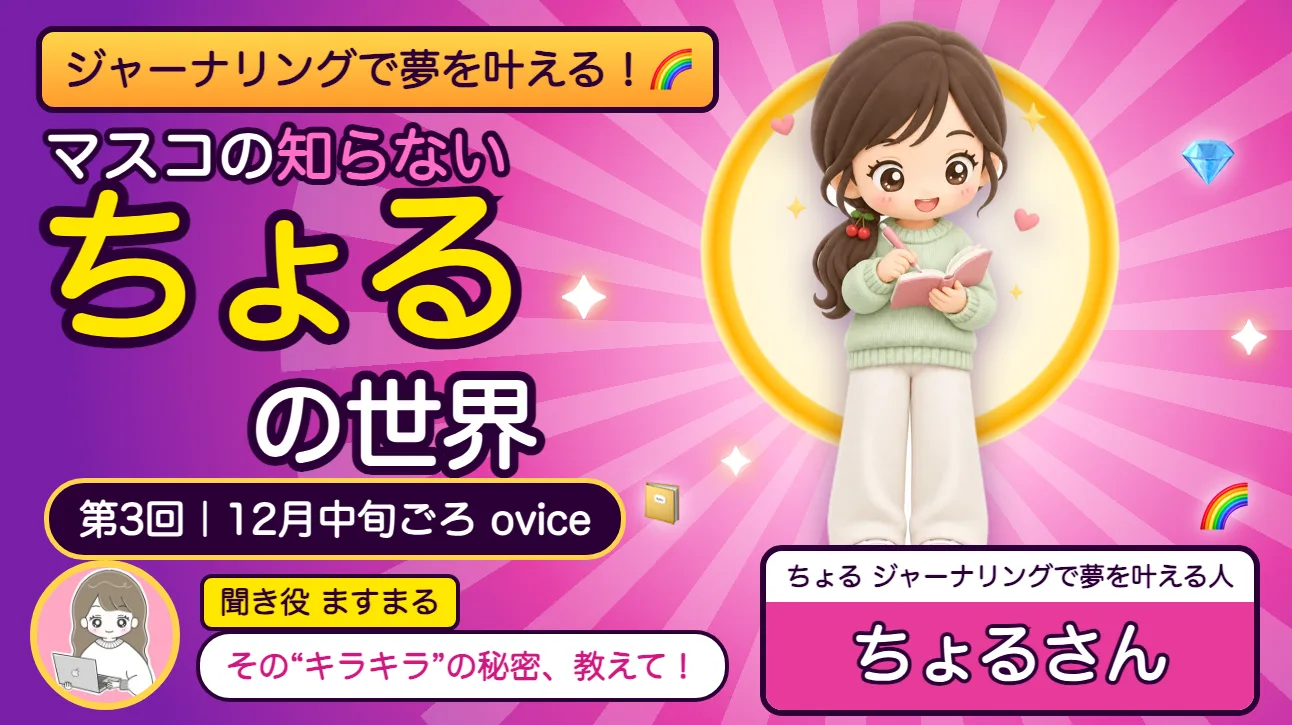
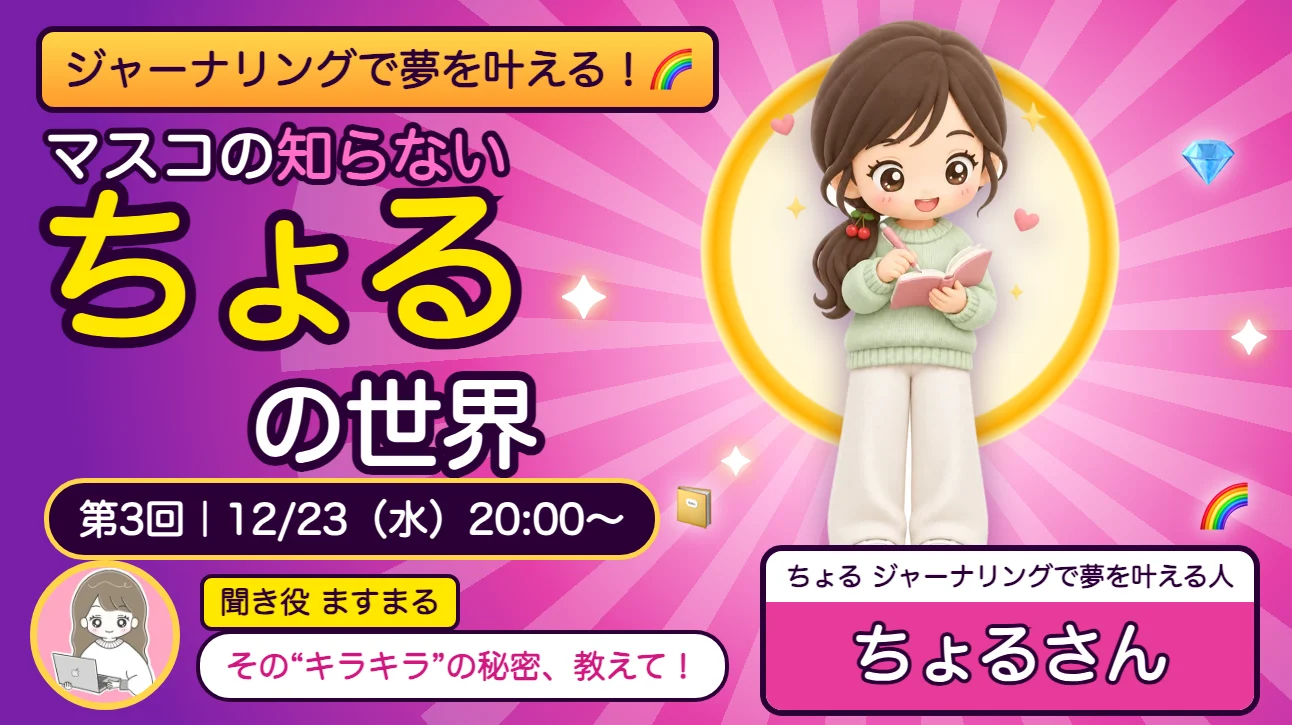
マスコの知らない世界：第3回 12/23（水）20:00〜確定・第2回わっしーさんの宝物と振り返り記事を追加

Changed region(s): [[0.2167, 0.6372, 0.5573, 0.789]]

diff --git a/friend-share-g-4TJvltQiyBCvCCj7/index.html b/friend-share-g-4TJvltQiyBCvCCj7/index.html
@@ -440,8 +440,8 @@ h2{font-size:clamp(21px,6vw,30px)}
 .js .gems li .lid:active{transform:translateY(3px) scale(.98)}
 @media(min-width:860px){
  .shelf{grid-template-columns:1fr}
- #ep1{display:grid;grid-template-columns:5fr 6fr;align-items:start}
- #ep1>img{height:100%;aspect-ratio:auto;min-height:100%}
+ #ep1,#ep2{display:grid;grid-template-columns:5fr 6fr;align-items:start}
+ #ep1>img,#ep2>img{height:100%;aspect-ratio:auto;min-height:100%}
  .booklist{margin-right:0}
  .list3{grid-template-columns:repeat(3,1fr)}
  .tachiewrap{width:220px}
@@ -492,7 +492,7 @@ button.tapcue{background:none;border:0;padding:6px 0;font-family:inherit;cursor:
 @media (max-width:480px){.dock .d{font-size:0}.dock .d b{font-size:15px}}
 @media (prefers-reduced-motion:reduce){.lamp{animation:none}}
 [hidden]{display:none!important}
-@media(min-width:860px){#ep1>img{height:auto;min-height:0;aspect-ratio:16/9;align-self:start;border-radius:20px 0 0 0}}
+@media(min-width:860px){#ep1>img,#ep2>img{height:auto;min-height:0;aspect-ratio:16/9;align-self:start;border-radius:20px 0 0 0}}
 .toast{width:max-content}
 
 /* ===== プロフィールへの入口と、記事のサムネ（11/23夕） ===== */
@@ -532,7 +532,7 @@ button.tapcue{background:none;border:0;padding:6px 0;font-family:inherit;cursor:
     <h1>マスコ<small>の</small><br class="spbr">知らない世界</h1>
   </div>
 
-  <a class="chip" href="#next"><span class="when">12月中旬<small style="font-size:.6em">ごろ</small></span><span class="who">次回の放送｜ちょるの世界</span><span class="left" id="left1"></span></a>
+  <a class="chip" href="#next"><span class="when">12/23<small style="font-size:.6em">（水）</small>20:00〜</span><span class="who">次回の放送｜ちょるの世界</span><span class="left" id="left1"></span></a>
   <p class="what">ゲストが夢中になっている「好き」や「こだわり」の世界を、マスコ（＝ますまる）が1対1でじっくり聞かせてもらう場所です💁♀<small>— ますまるさん（番組チャットの概要欄より）</small></p>
   <p class="hunthint" id="hunthint">ページのどこかに💎が5つ！見つけたら押してみてね</p>
 
@@ -548,8 +548,8 @@ button.tapcue{background:none;border:0;padding:6px 0;font-family:inherit;cursor:
 
 <section class="next" id="next">
   <div class="wrap">
-    <div class="nexthead"><h2>次回の放送</h2><div class="datebadge"><b>12月中旬</b><span>ごろ予定</span></div></div>
-    <p class="venue">日時が決まりしだい、番組チャットでお知らせします（ますまるさん）</p>
+    <div class="nexthead"><h2>次回の放送</h2><div class="datebadge"><b>12/23</b><span>（水）20:00〜</span></div></div>
+    <p class="venue">20:00〜｜ovice 4階 レジャーシートエリア｜クリスマスイブイブスペシャル🎅</p>
     <p class="cd" id="cd"></p>
     <div class="nx">
     <div class="rv kv" id="kv"><img width="1292" height="725" src="assets/kokuchi_choru.webp" alt="第3回 ジャーナリングで夢を叶える！ちょるの世界（ファンサイトの仮カード）"></div>
@@ -590,7 +590,7 @@ button.tapcue{background:none;border:0;padding:6px 0;font-family:inherit;cursor:
       <a class="btn" href="https://libecity.com/room_list?room_id=EMX7izce1JYGr04pujfl" target="_blank" rel="noopener">番組チャットをのぞく</a>
       <a class="btn w" href="https://app.ovice.com/ws/libe33333/" target="_blank" rel="noopener">当日のovice会場へ行く</a>
     </div>
-    <p class="note">参加のしかたは、ますまるさんの告知の言葉から。<br>※日時・場所は、決まりしだい番組チャットでお知らせします（第1回・第2回は ovice 4階 レジャーシートエリアでした）。</p>
+    <p class="note">参加のしかたは、ますまるさんの告知（11/28）の言葉から。<br>※4階に入室後、レジャーシートエリアへお越しください（変更があれば番組チャットでお知らせがあります）。</p>
   </div>
 </section>
 
@@ -611,10 +611,10 @@ button.tapcue{background:none;border:0;padding:6px 0;font-family:inherit;cursor:
     <article class="rv card soon" id="ep3"><span class="ribbon">次回</span>
       <div class="giftbox" aria-hidden="true">🎁</div>
       <div class="body">
-        <time><span class="no">#03</span>12月中旬ごろ <span class="tag">準備中！</span> <span class="tag" id="left2" style="animation:none;background:#fff"></span></time>
+        <time><span class="no">#03</span>12/23（水） <span class="tag">準備中！</span> <span class="tag" id="left2" style="animation:none;background:#fff"></span></time>
         <h4>ジャーナリングで夢を叶える！ちょるの世界</h4>
         <button type="button" class="tapcue" id="tapcue">👆 そっと押してみてね</button>
-        <p class="guest" style="margin:0">日時は番組チャットでお知らせ！放送後に宝物の記録がここへ並びます。</p>
+        <p class="guest" style="margin:0">12/23（水）20:00〜 クリスマスイブイブスペシャル🎅 放送後に宝物の記録がここへ並びます。</p>
       </div>
     </article>
 
@@ -625,9 +625,17 @@ button.tapcue{background:none;border:0;padding:6px 0;font-family:inherit;cursor:
         <h4>ガソリン満タン！エンジン全開！わっしーの世界</h4>
         <p class="guest">リベに入会して11ヶ月で、勉強会・交流会の主催・登壇は43回。リベで会ったり話したりした人は900人以上！実は、この番組チャットが生まれるきっかけをくれた方です❤🔥<small>（ますまるさんの告知より）</small></p>
         <a class="pfchip" href="https://libecity.com/user_profile/2zZjosX661aVCKXw4bO6OL0Gg3g2" target="_blank" rel="noopener"><img src="assets/wasshi_icon.webp" width="40" height="40" alt="" loading="lazy">わっしーさんのプロフィールを見る →</a>
+        <p class="gemhead">マスコが見つけた3つの宝物<small>※掘ると出る言葉は、ますまるさんの記事から</small></p>
+        <ul class="gems">
+          <li><b>身軽な「今」を逃さない</b><div class="dug"><button type="button" class="lid" aria-expanded="false" aria-label="「身軽な「今」を逃さない」を掘る">ここを掘る！</button><p aria-hidden="true">怖さは「めちゃくちゃあった」。それでも、いまは身軽に動ける時期だと考えて「今だ」と決めた。</p></div></li>
+          <li><b>言われたら、えいっとやってみる</b><div class="dug"><button type="button" class="lid" aria-expanded="false" aria-label="「言われたら、えいっとやってみる」を掘る">ここを掘る！</button><p aria-hidden="true">やりますと言って、本当にやる。うまくいかなくても、それは途中経過。だから、また次の「えいっ」が出せる。</p></div></li>
+          <li><b>自分のために、習慣で動く</b><div class="dug"><button type="button" class="lid" aria-expanded="false" aria-label="「自分のために、習慣で動く」を掘る">ここを掘る！</button><p aria-hidden="true">「僕は、やる気のある人間じゃないんです。習慣にしまくっている人なんです」（わっしーさん）</p></div></li>
+        </ul>
+        <p class="gemdone" aria-live="polite"></p>
         <blockquote class="mythanks">わっしーさんの「原動力」のお話、私自身、聞きながら何度も背中を押してもらいました🔥<br>みなさんにとっても、明日からのガソリンになっていたら嬉しいです✨<cite>— ますまるさん（放送後のチャットより）</cite></blockquote>
         <p class="voice">「あんなにも色んな人が来てくれて、とっても嬉しかったです😆」（ゲストの わっしーさん）</p>
         <p class="voice">「話をまわす、ますまるさんもトークがどこかでみたことあるテレビ番組みたいでした📺」（参加した てんてんさん）</p>
+        <a class="btn s" href="https://library.libecity.com/articles/01M8FQS5JV9HAN6TZRT74933Z4" target="_blank" rel="noopener">振り返り記事を読む</a>
       </div>
     </article>
 
@@ -663,6 +671,7 @@ button.tapcue{background:none;border:0;padding:6px 0;font-family:inherit;cursor:
     <a class="pfchip" href="https://libecity.com/user_profile/CnQYsvrji0X2ucgS2mDwscwbB8g2" target="_blank" rel="noopener"><img src="assets/masumaru_icon.webp" width="40" height="40" alt="" loading="lazy">ますまるさんのプロフィールを見る →</a>
     <p class="swipehint">横にめくれます → <button type="button" class="arw" id="bl" aria-label="前の記事へ">‹</button><button type="button" class="arw" id="br" aria-label="次の記事へ">›</button></p>
     <ul class="booklist" id="bookul">
+      <li><a href="https://library.libecity.com/articles/01M8FQS5JV9HAN6TZRT74933Z4" target="_blank" rel="noopener"><time>11/28｜番組の記事 第2回</time><img class="bth" src="assets/kokuchi_wasshi.webp" width="640" height="360" loading="lazy" alt=""><b>🎙【ガソリン満タン！エンジン全開！】わっしーさんの世界🦅🔥</b><span>第2回の夜に、マスコが見つけた3つの宝物。</span></a></li>
       <li><a href="https://library.libecity.com/articles/01M7CG2FWKHQDGMY3CC1VM8VQM" target="_blank" rel="noopener"><time>11/14｜番組の記事 第1回</time><img class="bth" src="assets/book1.webp" width="640" height="360" loading="lazy" alt=""><b>🎙【人と人をつなぐ天才？！】JACKさんの世界🦄🌈</b><span>第1回の夜に、マスコが見つけた3つの宝物。</span></a></li>
       <li><a href="https://library.libecity.com/articles/01M63BQQ7CCSB4JKEKZ6PCYMPH" target="_blank" rel="noopener"><time>10/29</time><img class="bth" src="assets/book2.webp" width="640" height="360" loading="lazy" alt=""><b>【続けるのが苦手でも大丈夫】97日中72日のカウントダウンが教えてくれたこと</b><span>退職までの97日間で72日投稿。途切れても自分のペースでやめずに続ける話。</span></a></li>
       <li><a href="https://library.libecity.com/articles/01M5EJQVRJ8622T6VXY8VZRXPN" target="_blank" rel="noopener"><time>10/21</time><img class="bth" src="assets/book3.webp" width="640" height="360" loading="lazy" alt=""><b>【初対面が苦手な方へ】「任せたい」は15秒で決まる！成約率82% 元プランナーの3つの習慣</b><span>挨拶前から相手を見て、一言目を選び、言葉より行動のサインを見る3つの習慣。</span></a></li>
@@ -730,7 +739,7 @@ button.tapcue{background:none;border:0;padding:6px 0;font-family:inherit;cursor:
 
 <div class="prog" id="prog"></div>
 <div class="bag" id="bag">宝物 💎 <span id="bagn">0</span>/5</div>
-<div class="dock" id="dock"><button class="x" id="dockx" type="button" aria-label="閉じる">×</button><div class="d"><b>12月中旬ごろ</b>次回｜ちょるの世界</div><a href="https://libecity.com/room_list?room_id=EMX7izce1JYGr04pujfl" target="_blank" rel="noopener">番組チャットをのぞく</a></div>
+<div class="dock" id="dock"><button class="x" id="dockx" type="button" aria-label="閉じる">×</button><div class="d"><b>12/23（水）20:00〜</b>次回｜ちょるの世界</div><a href="https://libecity.com/room_list?room_id=EMX7izce1JYGr04pujfl" target="_blank" rel="noopener">番組チャットをのぞく</a></div>
 <div class="toast" id="toast" role="status">コピーしました！</div>
 
 <footer>
@@ -741,7 +750,7 @@ button.tapcue{background:none;border:0;padding:6px 0;font-family:inherit;cursor:
 (()=>{const $=q=>document.querySelector(q),$$=q=>[...document.querySelectorAll(q)];
 // あと何日
 // 第3回の日時。決まったら AIR に入れる（例 '2026-12-16T20:00:00+09:00'）。題字下の帯・日付バッジ・下の帯・#03 の日付の文も合わせて直す
-const AIR=null;
+const AIR='2026-12-23T20:00:00+09:00';
 const air=AIR?new Date(AIR):null,end=air?new Date(air.getTime()+36e5):null,now=new Date();
 const jst=x=>Math.floor((x.getTime()+9*36e5)/864e5);const d=air?jst(air)-jst(now):0;
 const t=!air?'日時は近日発表':now>end?'':d>0?'あと'+d+'日':now<air?'今夜！':'放送中！';
@@ -784,7 +793,7 @@ const cd=$('#cd');const tick=()=>{const n=new Date();if(!air){cd.textContent=T.t
 // 玉をはじく
 $$('.dot').forEach(d=>d.addEventListener('click',()=>{d.classList.remove('popped');void d.offsetWidth;d.classList.add('popped');navigator.vibrate&&navigator.vibrate(15)}));
 // 宝物を掘り出す
-$$('.gems .lid').forEach(b=>b.addEventListener('click',()=>{b.closest('li').dataset.open=1;b.setAttribute('aria-expanded','true');b.tabIndex=-1;b.disabled=true;const pp=b.parentNode.querySelector('p');pp&&pp.removeAttribute('aria-hidden');navigator.vibrate&&navigator.vibrate(25);if($$('.gems li[data-open]').length===3){$('#ep1').classList.add('shine');$('#gemdone').textContent=T.dig3;confetti()}}));
+$$('.gems .lid').forEach(b=>b.addEventListener('click',()=>{b.closest('li').dataset.open=1;b.setAttribute('aria-expanded','true');b.tabIndex=-1;b.disabled=true;const pp=b.parentNode.querySelector('p');pp&&pp.removeAttribute('aria-hidden');navigator.vibrate&&navigator.vibrate(25);const cardx=b.closest('.card');if(cardx.querySelectorAll('.gems li[data-open]').length===3){cardx.classList.add('shine');cardx.querySelector('.gemdone').textContent=T.dig3;confetti()}}));
 // まだ開かない箱
 const ep3=$('#ep3');const knock=()=>{const n2=new Date();if(air&&n2>=air&&n2<end){say2(T.onair);return}if(!air||n2<air){ep3.classList.remove('shake');void ep3.offsetWidth;ep3.classList.add('shake');say2(T.notyet)}};ep3.addEventListener('click',knock);
 // 宝さがし
